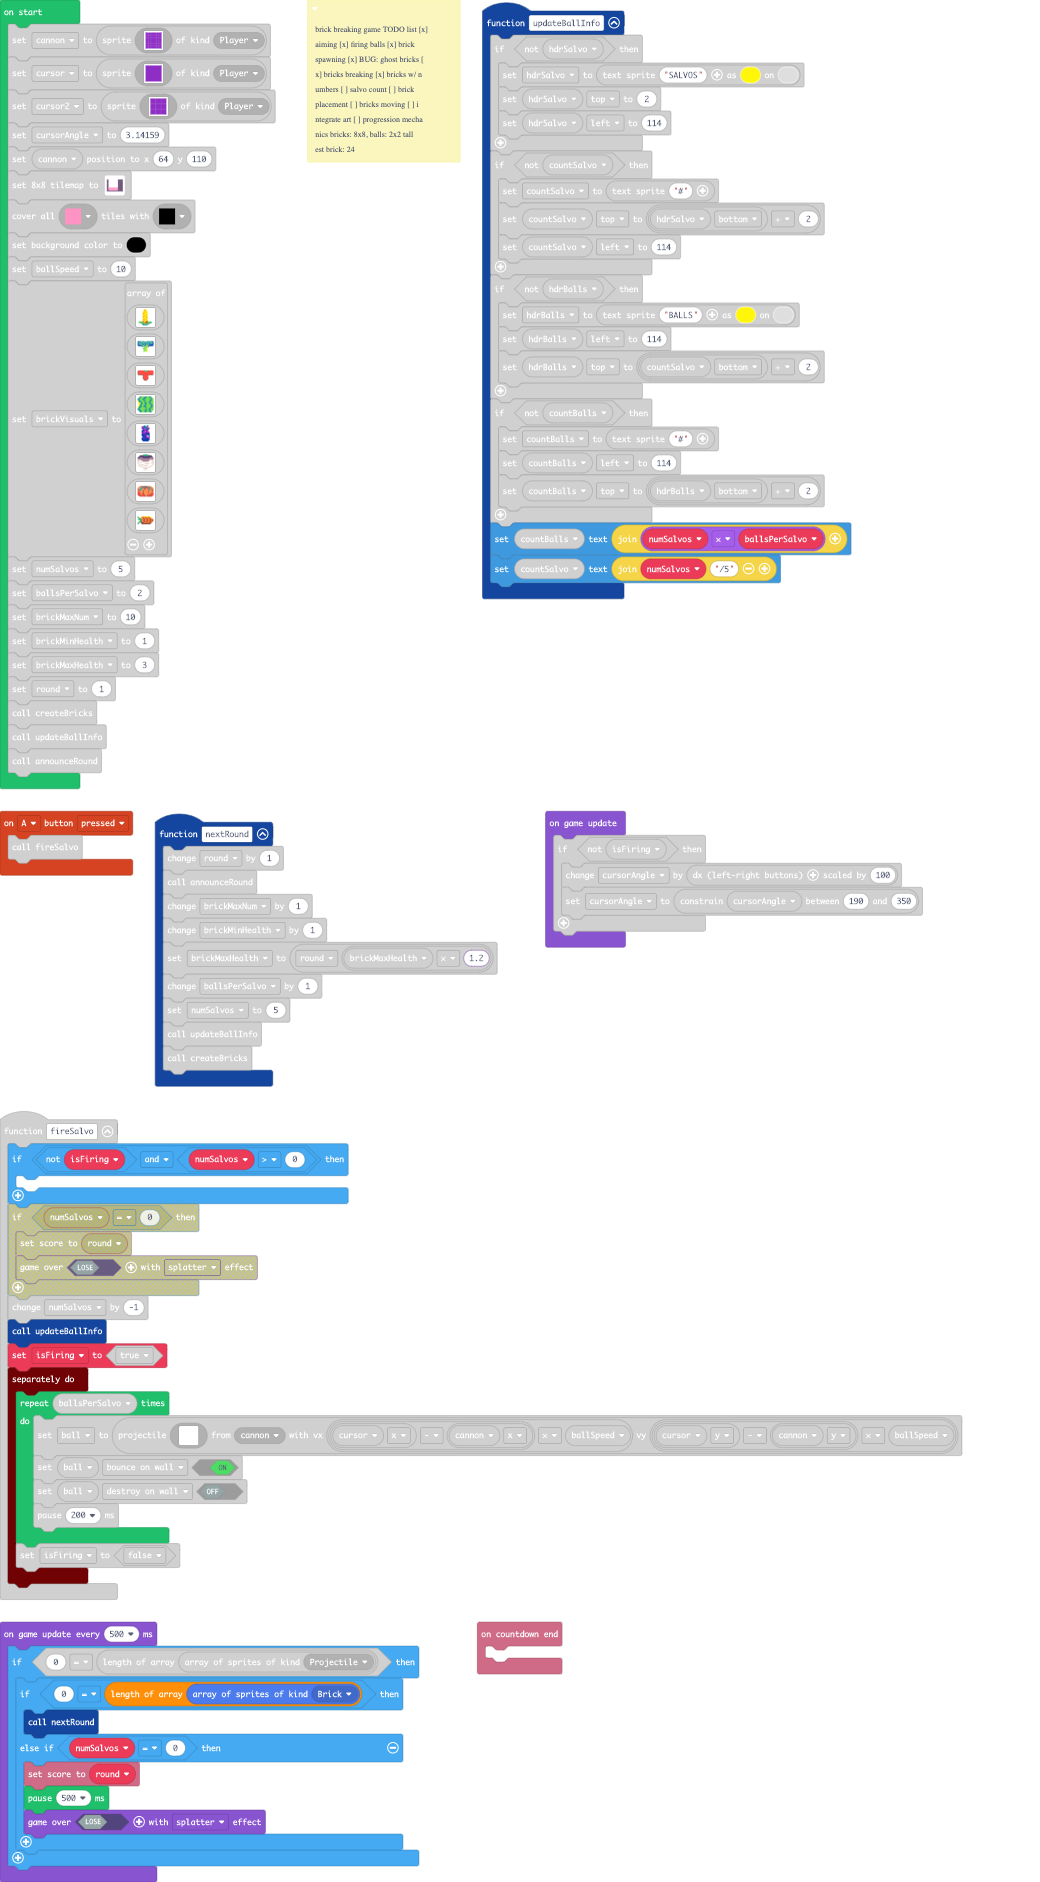
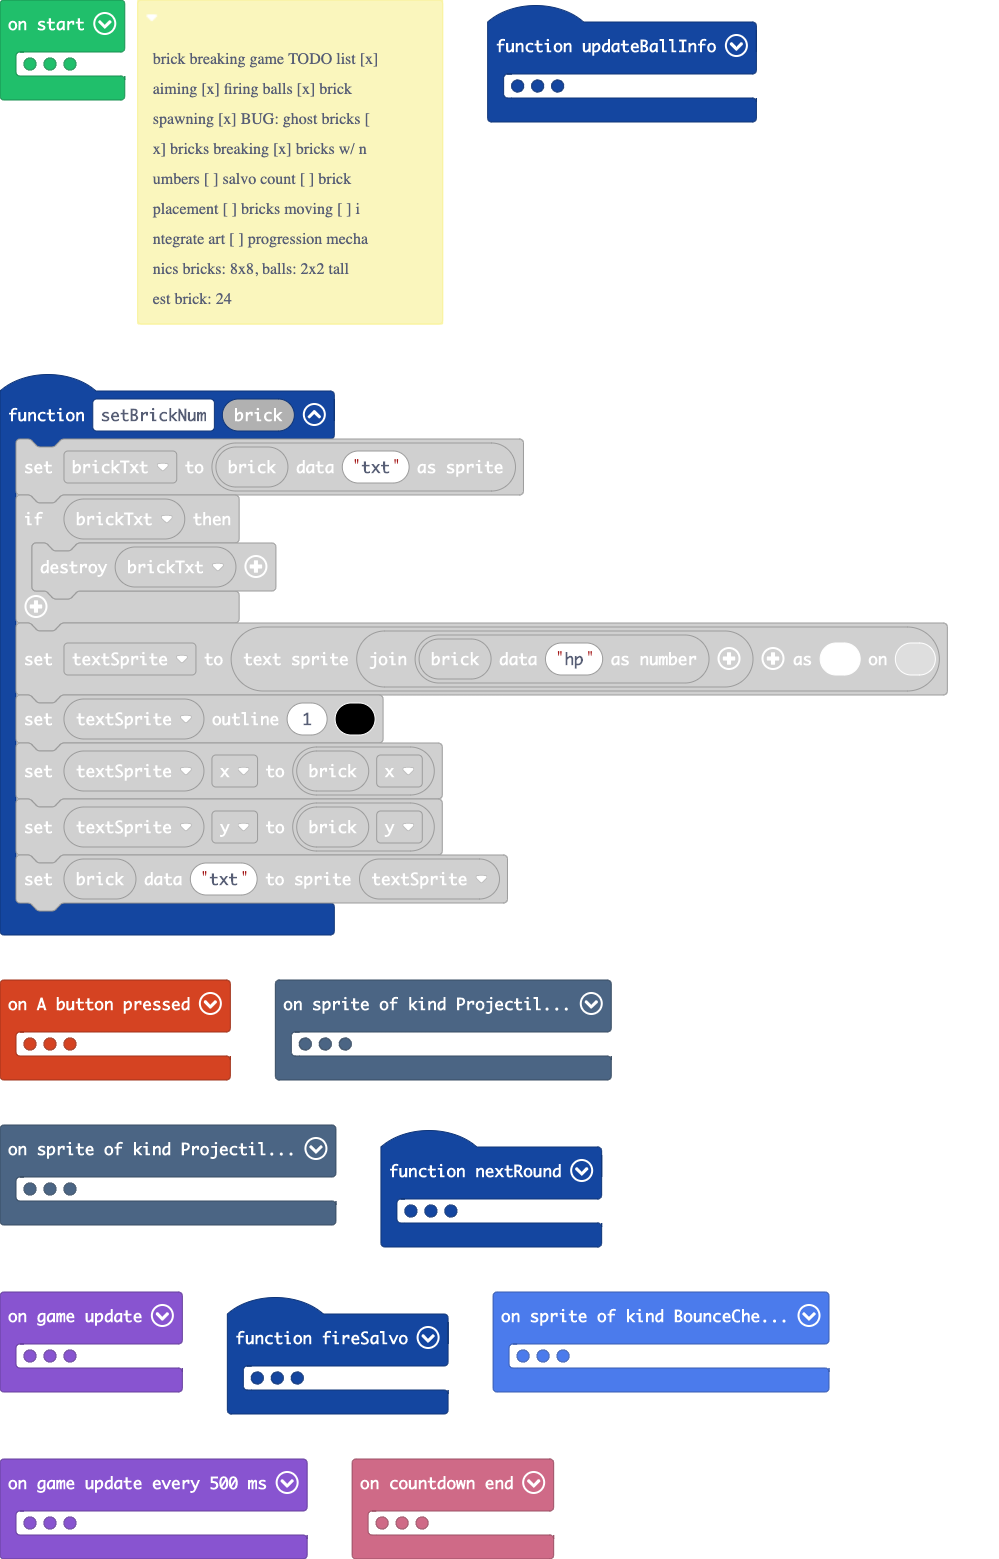
balance

diff --git a/main.ts b/main.ts
@@ -4,6 +4,35 @@ namespace SpriteKind {
     export const BounceChecker = SpriteKind.create()
     export const VisualFloof = SpriteKind.create()
 }
+/**
+ * brick breaking game TODO list
+ * 
+ * [x] aiming
+ * 
+ * [x] firing balls
+ * 
+ * [x] brick spawning
+ * 
+ * [x] BUG: ghost bricks
+ * 
+ * [x] bricks breaking
+ * 
+ * [x] bricks w/ numbers
+ * 
+ * [ ] salvo count
+ * 
+ * [ ] brick placement
+ * 
+ * [ ] bricks moving
+ * 
+ * [ ] integrate art
+ * 
+ * [ ] progression mechanics
+ * 
+ * bricks: 8x8, balls: 2x2
+ * 
+ * tallest brick: 24
+ */
 // 1. place brick randomly
 // 
 // 2. delete if overlapping
@@ -133,9 +162,19 @@ sprites.onOverlap(SpriteKind.BounceChecker, SpriteKind.Brick, function (sprite, 
     }
 })
 function updateBallInfo () {
+    if (!(hdrRound)) {
+        hdrRound = textsprite.create("ROUND", 0, 5)
+        hdrRound.top = 2
+        hdrRound.left = 114
+    }
+    if (!(smallRoundTxt)) {
+        smallRoundTxt = textsprite.create("#")
+        smallRoundTxt.top = hdrRound.bottom + 2
+        smallRoundTxt.left = 114
+    }
     if (!(hdrSalvo)) {
         hdrSalvo = textsprite.create("SALVOS", 0, 5)
-        hdrSalvo.top = 2
+        hdrSalvo.top = smallRoundTxt.bottom + 2
         hdrSalvo.left = 114
     }
     if (!(countSalvo)) {
@@ -155,6 +194,7 @@ function updateBallInfo () {
     }
     countBalls.setText("" + numSalvos * ballsPerSalvo)
     countSalvo.setText("" + numSalvos + "/5")
+    smallRoundTxt.setText("" + round)
 }
 function announceRound () {
     story.queueStoryPart(function () {
@@ -216,35 +256,6 @@ scene.onOverlapTile(SpriteKind.Projectile, myTiles.tile4, function (sprite, loca
 sprites.onOverlap(SpriteKind.Projectile, SpriteKind.Brick, function (sprite, otherSprite) {
 	
 })
-/**
- * brick breaking game TODO list
- * 
- * [x] aiming
- * 
- * [x] firing balls
- * 
- * [x] brick spawning
- * 
- * [x] BUG: ghost bricks
- * 
- * [x] bricks breaking
- * 
- * [x] bricks w/ numbers
- * 
- * [ ] salvo count
- * 
- * [ ] brick placement
- * 
- * [ ] bricks moving
- * 
- * [ ] integrate art
- * 
- * [ ] progression mechanics
- * 
- * bricks: 8x8, balls: 2x2
- * 
- * tallest brick: 24
- */
 let textSprite: TextSprite = null
 let brickTxt: Sprite = null
 let roundTxt: TextSprite = null
@@ -252,6 +263,8 @@ let countBalls: TextSprite = null
 let hdrBalls: TextSprite = null
 let countSalvo: TextSprite = null
 let hdrSalvo: TextSprite = null
+let smallRoundTxt: TextSprite = null
+let hdrRound: TextSprite = null
 let bricks: Sprite[] = []
 let brick: Sprite = null
 let vis: Image = null
